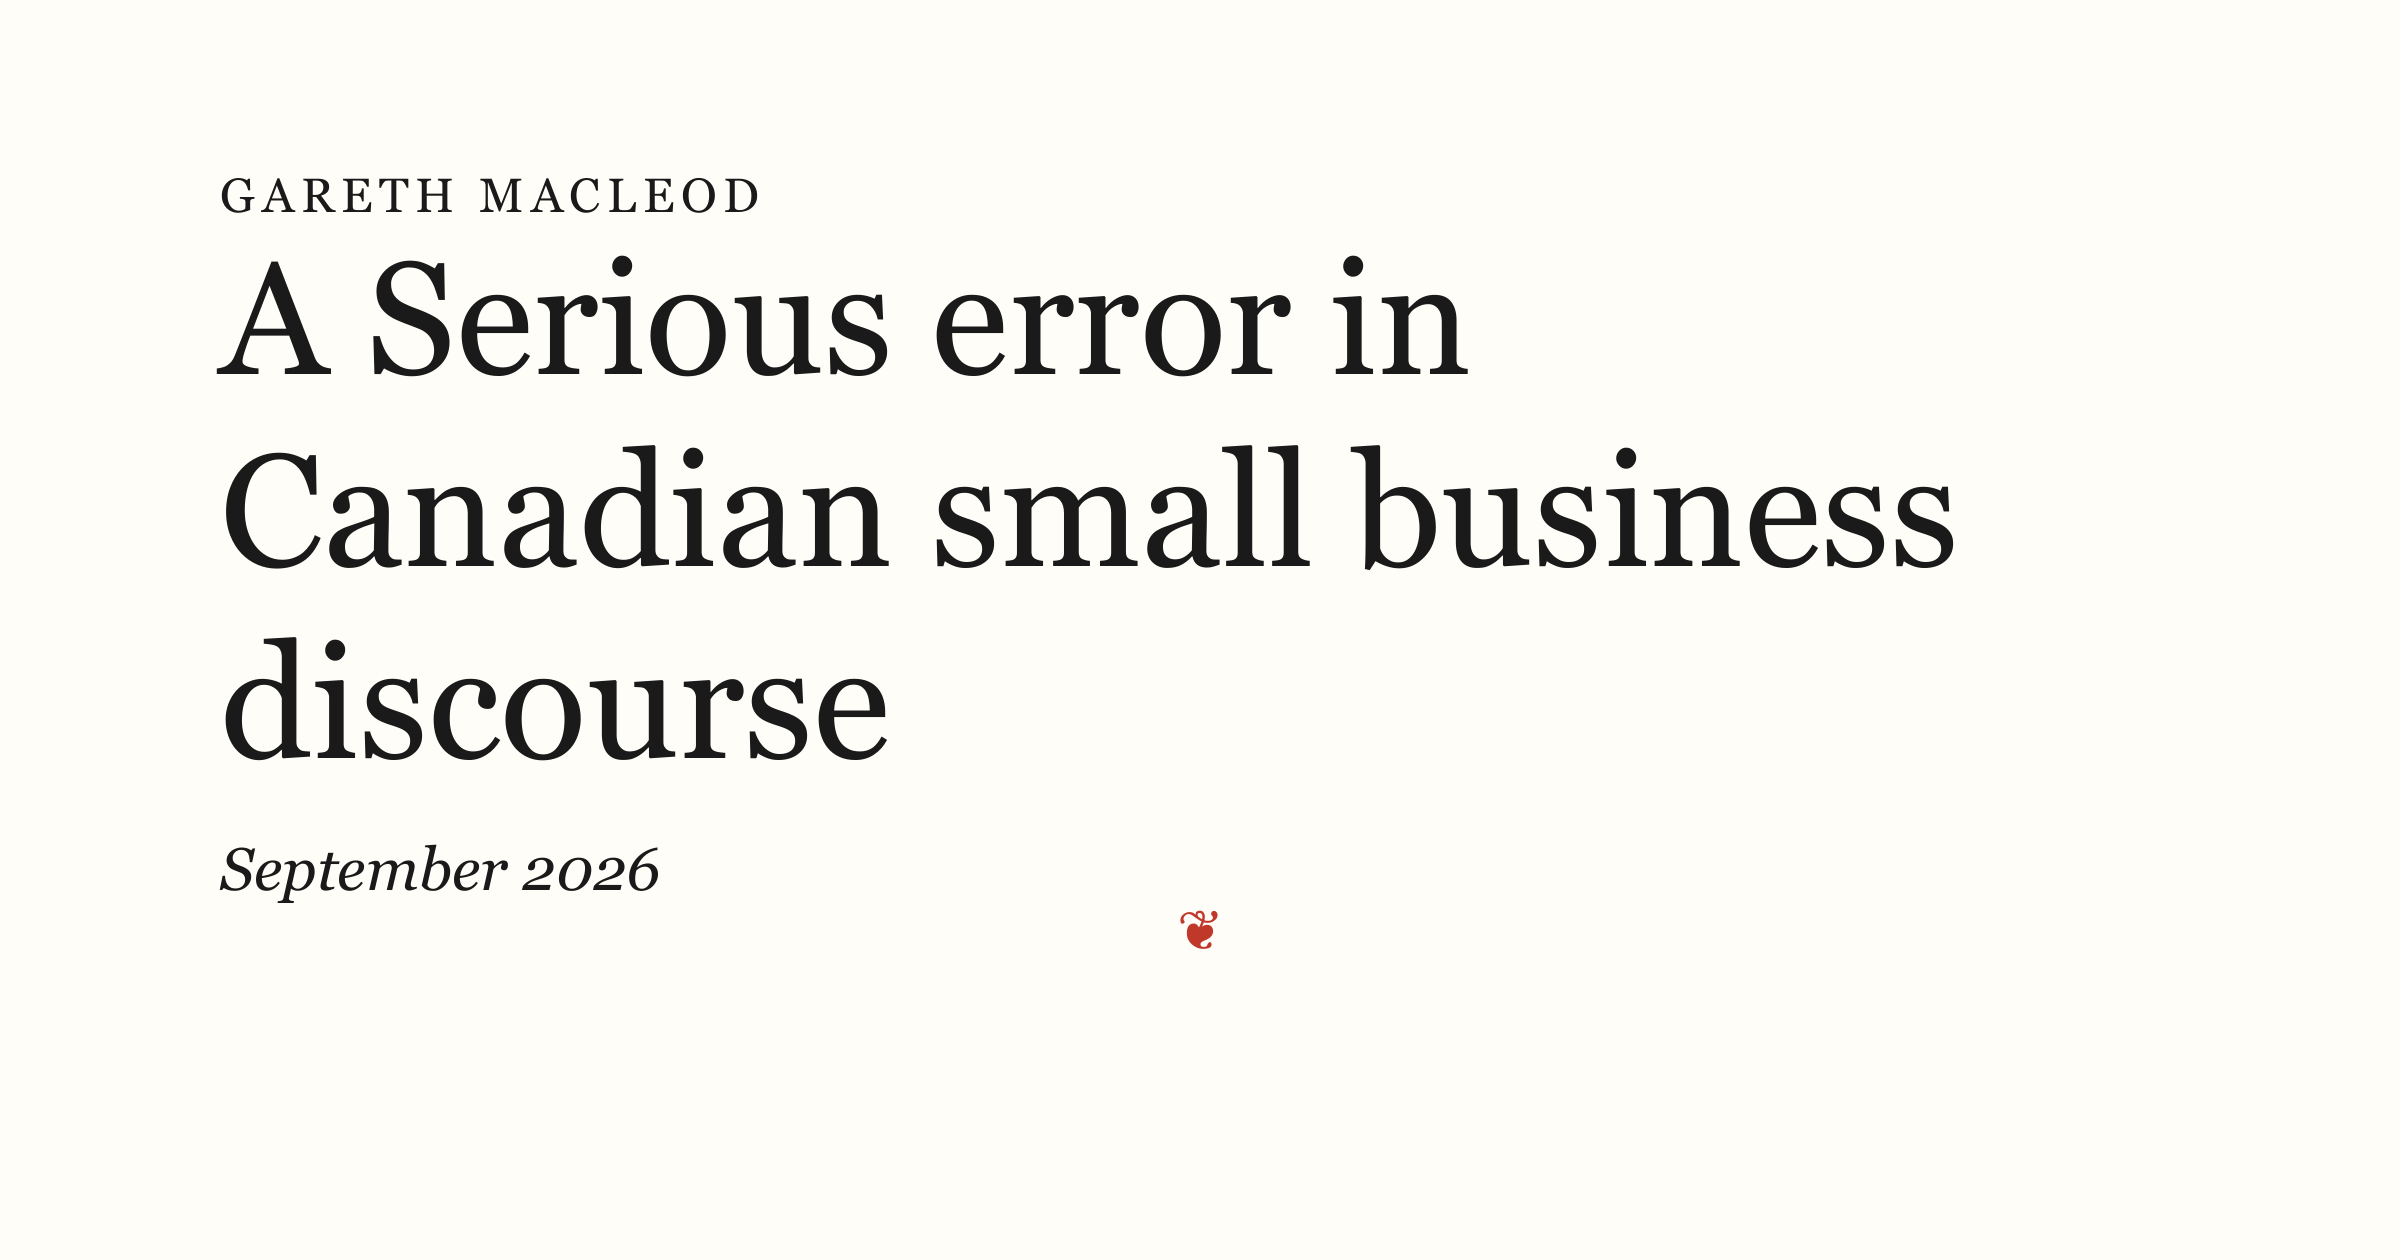
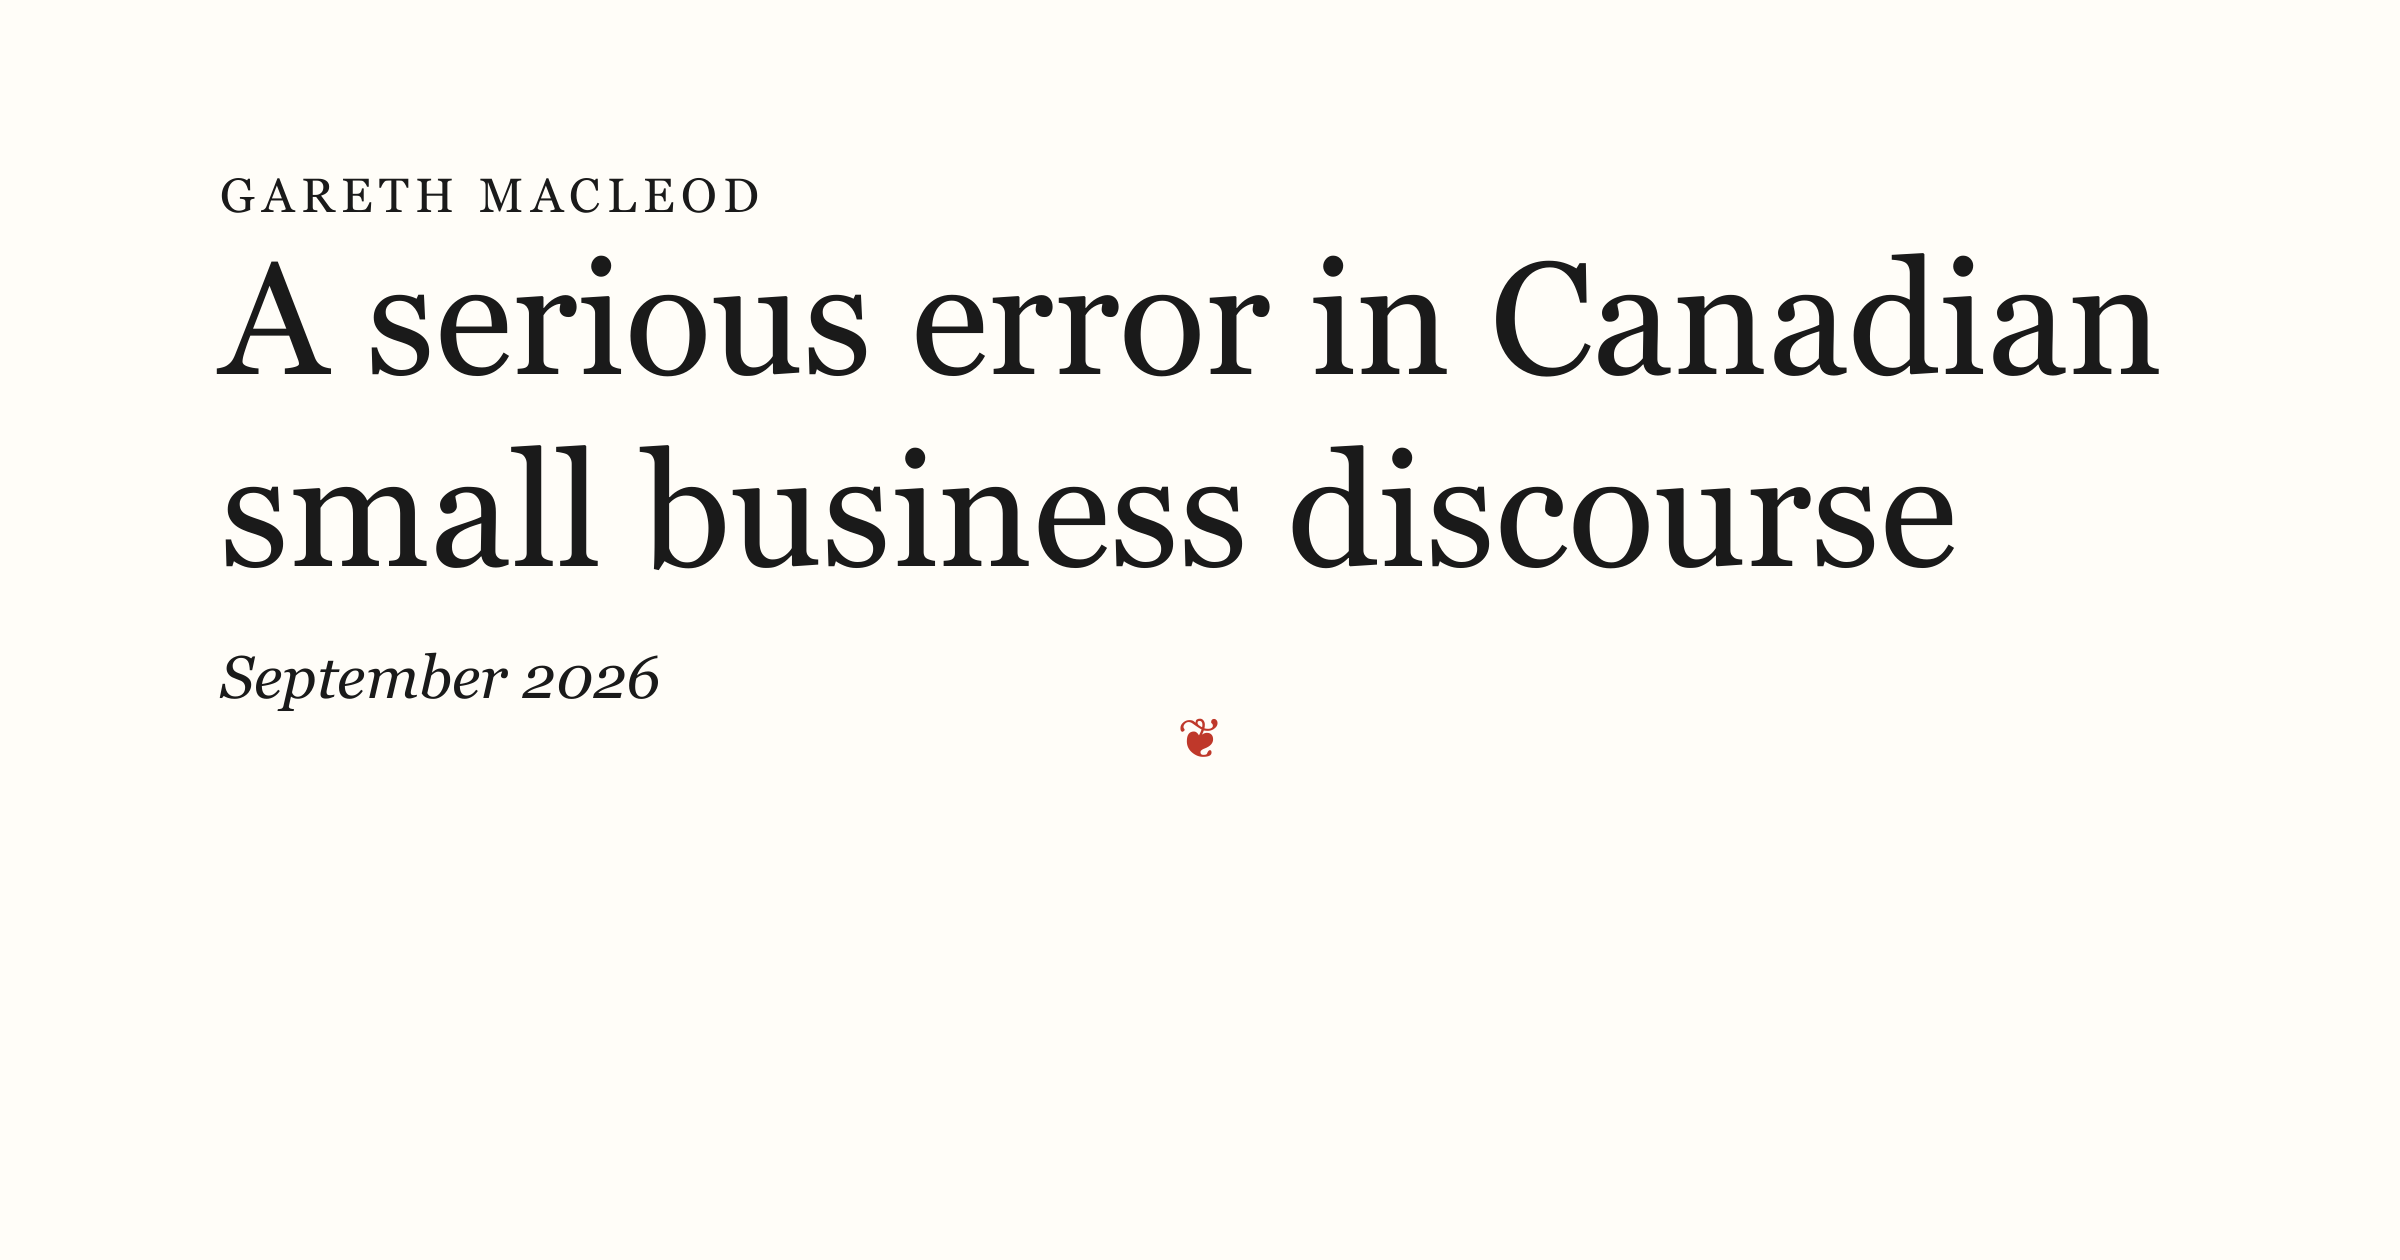
Sync Notion edits and lowercase essay title

diff --git a/app/writing/a-serious-error-in-canadian-small-business-discourse/page.tsx b/app/writing/a-serious-error-in-canadian-small-business-discourse/page.tsx
@@ -4,7 +4,7 @@ import { postMetadata } from '@/lib/postMetadata';
 
 export const metadata = postMetadata({
   slug: 'a-serious-error-in-canadian-small-business-discourse',
-  title: 'A Serious error in Canadian small business discourse',
+  title: 'A serious error in Canadian small business discourse',
   description:
     'A look at the employer and non-employer business counts behind the claimed small-business gap between Canada and the US.',
 });
@@ -20,7 +20,7 @@ export default function CanadianSmallBusinessPost() {
 
       <main>
         <h1 className="mt-0 mb-1 text-[1.45rem] leading-[1.25] text-balance">
-          A Serious error in Canadian small business discourse
+          A serious error in Canadian small business discourse
         </h1>
         <p className="m-0 italic">September 2026</p>
 
@@ -39,11 +39,11 @@ export default function CanadianSmallBusinessPost() {
         </blockquote>
 
         <p>
-          The source given for the Canadian stat here is this 2023 ISDE report table which shows 33.6 businesses per 1000 adult population (18+). This report defines it’s subject as <strong>employer SMEs</strong>: a business with at least 1 and less than 500 employees.
+          The source given for the Canadian side of this comparison is this 2023 ISDE report table which shows 33.6 businesses per 1000 adult population (18+). This report defines it’s subject as <strong>employer SMEs</strong>: a business with at least 1 and less than 500 employees.
         </p>
 
         <p>
-          The US source given by the piece is a broken link, but the data can be found in the US census, or in annual summaries given out by the US Small Business Administration (SBA). The <a href="https://advocacy.sba.gov/wp-content/uploads/2025/06/United_States_2025-State-Profile.pdf#page=4">SBA’s 2025 report</a> gives separate business counts for those with 0, 1-19, and 20-499 employees. Adding the latter two categories together gives you 6374594 employer SMEs in the US. We’ll take the number of adults in the US for the same census year as 260 million. This gives us 24 employer SMEs per 1000 adults in the USA.<sup className="ml-0.5 text-[0.7em]"><a id="census-note-ref" href="#census-note" role="doc-noteref" aria-label="Footnote 1: reconstruct the figures from Census data">1</a></sup>
+          The US source given by the piece is a broken link, but the data can be found in the US census, or in annual summaries given out by the US Small Business Administration (SBA). The <a href="https://advocacy.sba.gov/wp-content/uploads/2025/06/United_States_2025-State-Profile.pdf#page=4">SBA’s 2025 report</a> separates counts for businesses with 0, 1-19, and 20-499 employees. Adding the latter two together gives 6,374,594 employer SMEs in the US. The underlying census year here is 2022, so we’ll take the number of US adults from the same source as 260 million. Dividing through gives us us 24 employer SMEs per 1000 adults in the USA.<sup className="ml-0.5 text-[0.7em]"><a id="census-note-ref" href="#census-note" role="doc-noteref" aria-label="Footnote 1: reconstruct the figures from Census data">1</a></sup>
         </p>
 
         <p>
@@ -51,7 +51,7 @@ export default function CanadianSmallBusinessPost() {
         </p>
 
         <p>
-          I cannot say how Build Canada arrived at their number, but I can hazard a guess. In the SBA table given above, if one were to add together all three categories of SMEs, you would get a number that represents <strong>employer and non-employer SMEs</strong> in the US. This number is 36186089. Divide through by the number of adults in the same census year (2022, 260 million), and you get 138. This is a slightly different number than what was given in the piece, but it’s in the ballpark. The difference could be accounted for by using a slightly different year for population and business stats.
+          I cannot say how Build Canada arrived at their number, but I can hazard a guess. In the SBA table given above, if one were to add together all three categories of SMEs, you would get a number that represents <strong>employer and non-employer SMEs</strong> in the US. This number is 36,186,089. Divide through by the number of adults in the same census year (2022, 260 million), and you get 138. This is close to, but slightly above the number than what was quoted in the piece. The difference could be accounted for by using a slightly different year for population and business stats.
         </p>
 
         <p>

diff --git a/app/page.tsx b/app/page.tsx
@@ -39,7 +39,7 @@ export default function Home() {
           <ul className="list-none p-0 m-0">
             <li className="mb-3 flex justify-between items-baseline gap-6">
               <Link href="/writing/a-serious-error-in-canadian-small-business-discourse" className="flex-1">
-                A Serious error in Canadian small business discourse
+                A serious error in Canadian small business discourse
               </Link>
               <span className="shrink-0">Sep 2026</span>
             </li>
